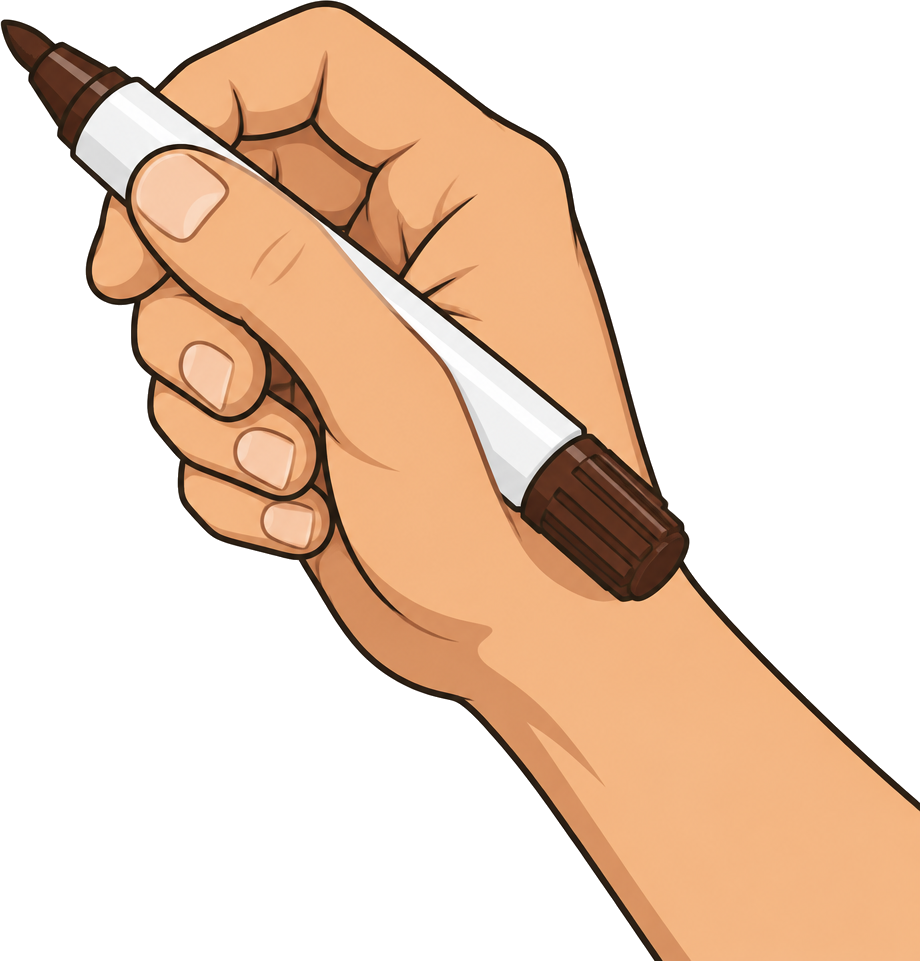
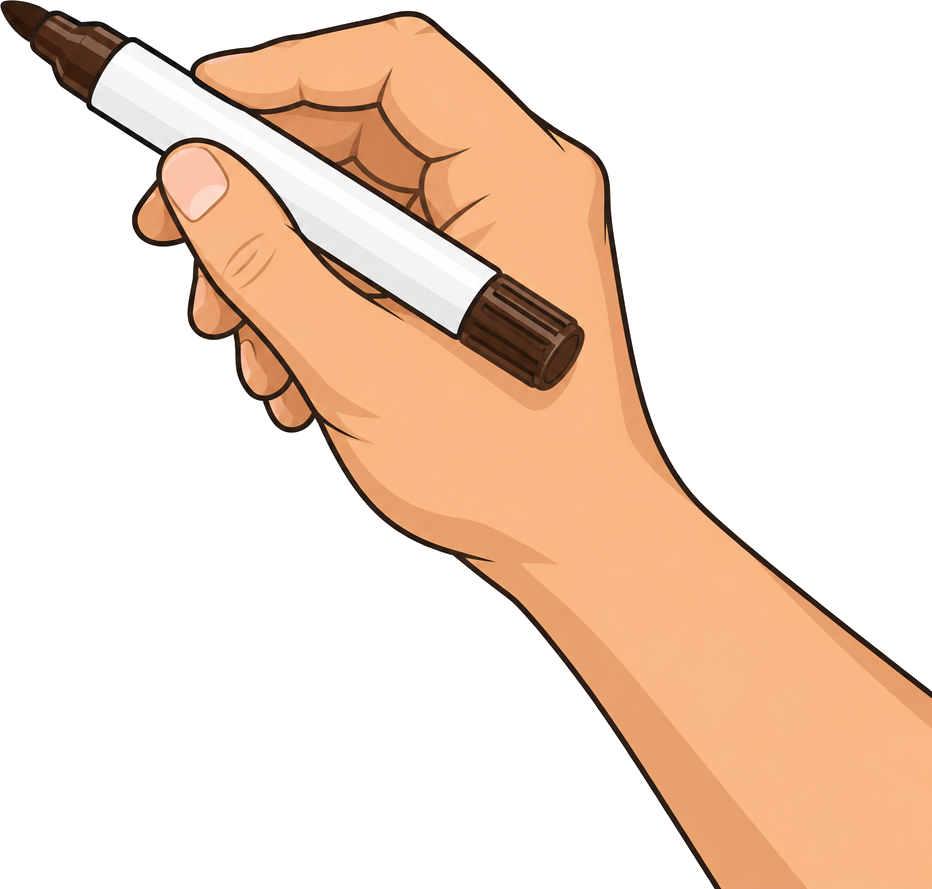
hand: natural tripod-grip sprite + scratch SFX -30%
The fist grip read awkward — new sprite holds the marker in a real
writing grip (thumb/index pinch, ring+pinky curled, nib lands on the
stroke tip). Marker scratch bed gain lowered 30% on both roles.

Changed region(s): [[0.0, 0.0, 1.0, 1.0], [0.8522, 0.9719, 0.8826, 1.0], [0.7, 0.7897, 0.7304, 0.82]]

diff --git a/engine_sources/whiteboard-v3-runtime/pipeline_v3_narration_timed.py b/engine_sources/whiteboard-v3-runtime/pipeline_v3_narration_timed.py
@@ -354,8 +354,8 @@ def build_sfx(snd, plan: dict, duration: float, out_path: Path) -> Path:
         snd.AUDIO = sfx_dir
         snd.ROLE_FILE['marker.short'] = marker_bed.name
         snd.ROLE_FILE['marker.swipe'] = marker_bed.name
-        snd.ROLE_GAIN['marker.short'] = 0.30
-        snd.ROLE_GAIN['marker.swipe'] = 0.38
+        snd.ROLE_GAIN['marker.short'] = 0.30 * 0.7
+        snd.ROLE_GAIN['marker.swipe'] = 0.38 * 0.7
 
     # Bed loudness map: the source recording has quiet valleys between its
     # strokes (crossfaded when looped) — a random offset can land a slice on

diff --git a/engine_sources/whiteboard-v3-runtime/v3_board_renderer.py b/engine_sources/whiteboard-v3-runtime/v3_board_renderer.py
@@ -737,7 +737,7 @@ def text_width(text: str, height: float) -> float:
 # -- drawing hand ------------------------------------------------------------
 
 _HAND_IMG = None
-_HAND_NIB = (3, 19)  # marker tip inside the sprite (px, source image space)
+_HAND_NIB = (5, 8)  # marker tip inside the sprite (px, source image space)
 
 
 def _hand():
